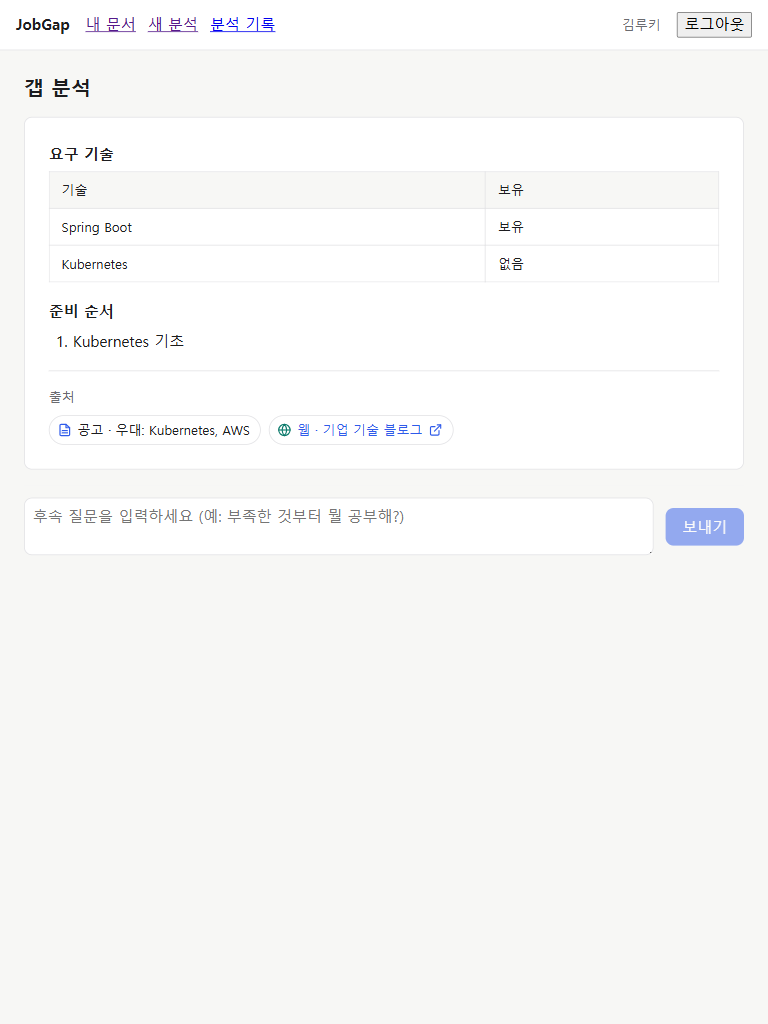
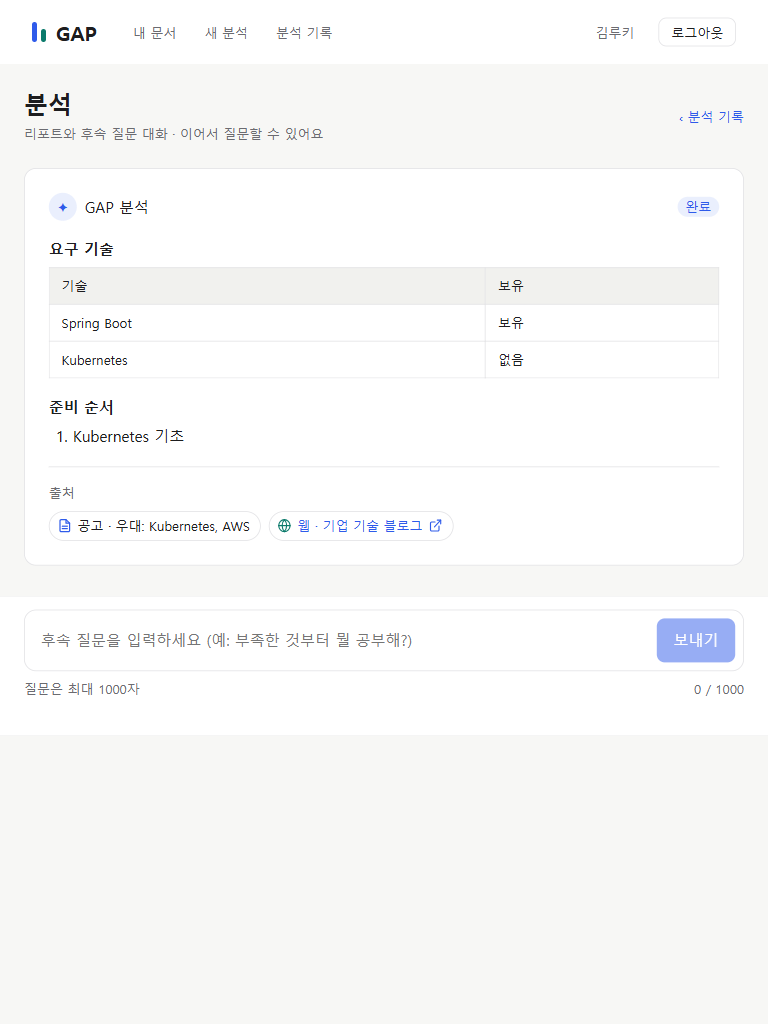
docs(fe): 분석 화면 반응형 캡처 및 명세서 최신화 [T-043]

diff --git a/docs/6-Frontend개발명세서.md b/docs/6-Frontend개발명세서.md
@@ -124,10 +124,10 @@ export const useChatStore = create((set) => ({ analysisId: null, messages: [], s
 ## 8. 주요 기능
 
 - **반응형**: 브레이크포인트 768px · 1280px(`tokens.css`에 값 · `@media`에 같은 숫자) · 뷰포트 390·768·1280에서 분석 화면 확인
-  - 분석 화면(`Analysis.module.css`): 기본(<768) 공고·이력서 선택이 세로 · 768↑ 가로 한 줄(`.picker` row) · 카드 여백 `--space-6` · 1280↑ 대화 열 `max-width: calc(var(--content-max) * 2 / 3)` 가운데 정렬. `Layout`은 768↑ `--space-6` · 1280↑ `--space-8` 여백 · 767 이하 내비 `order: 3`
+  - 분석 화면(`Analysis.module.css`): 기본(<768) 공고·이력서 선택창이 세로 · 768↑ 두 칸(`.fields` 1fr 1fr)에 "분석 시작"은 오른쪽 아래(`.actions`) · 카드 여백 768↑ `--space-6` · 콘텐츠 폭은 `Layout` `.main`(`--content-max`)을 그대로 쓴다(내 문서·분석 기록과 같은 폭·왼쪽 기준) · 글자는 FS 화면과 같은 값(페이지 제목 24/700/32 · 설명 13/400/20 · 카드 제목 17/700/26 · 라벨 13/500/20) · 분석 화면 버튼(분석 시작·보내기·중단)은 공용 `Button`을 그대로 쓰고 `Analysis.module.css`에서만 높이 44px · 15/500/24로 맞춘다. `Layout`은 768↑ `--space-6` · 1280↑ `--space-8` 여백 · 767 이하 내비 `order: 3`
   - 캡처(분석 결과 — `/analyses/new`에서 공고·이력서 선택 → 분석 시작 → `done` 뒤 `/analyses/{id}`): `docs/img/analysis-390.png` · `docs/img/analysis-768.png` · `docs/img/analysis-1280.png`
   - 보조 캡처(시작 전 선택 화면 `/analyses/new`): `docs/img/analysis-new-390.png` · `docs/img/analysis-new-768.png` · `docs/img/analysis-new-1280.png`
-  - 캡처 환경: 기준 커밋 `279904e` · 목(`node mock/server.mjs`) + `npm run dev` · headless Chrome 뷰포트 390×844 · 768×1024 · 1280×800 (2026-11-11). 세 너비 모두 `scrollWidth` = 뷰포트 폭(가로 스크롤 0) · 콘솔 에러 0 · 표가 표로 · 출처 칩 문서/웹 구분
+  - 캡처 환경: 기준 커밋 `39faba5` · 목(`node mock/server.mjs`) + `npm run dev` · headless Chrome 뷰포트 390×844 · 768×1024 · 1280×800 (2026-11-12). 세 너비 모두 `scrollWidth` = 뷰포트 폭(가로 스크롤 0) · 콘솔 에러 0 · 표가 표로 · 출처 칩 문서/웹 구분
 - **업로드**: 파일 선택(드래그앤드롭 선택) · 형식(.md/.txt)·크기(200KB) 안내와 클라이언트 검증 — 서버 검증이 정본(F-6) · 409·413·415는 `ErrorMessage` 문구
 - **스트리밍 렌더링**: `streamPost` → `res.body.getReader()` + `TextDecoder({stream:true})` → `createSseParser`로 프레임 → `token`을 마지막 ASSISTANT 메시지에 누적 · `sources`는 문서/웹 칩으로 구분 · `done`이면 생성 중 해제 · `error`면 `ErrorMessage` + 재시도 · 중단 버튼은 `AbortController`(부분 답변은 화면에만, 서버 저장 없음). AI 응답은 **텍스트로 렌더**(`dangerouslySetInnerHTML` 금지 — F-1).
 - **로딩**: 목록 첫 렌더부터 `LoadingSpinner` · 스트리밍 중 "생성 중…" + 중단 버튼
